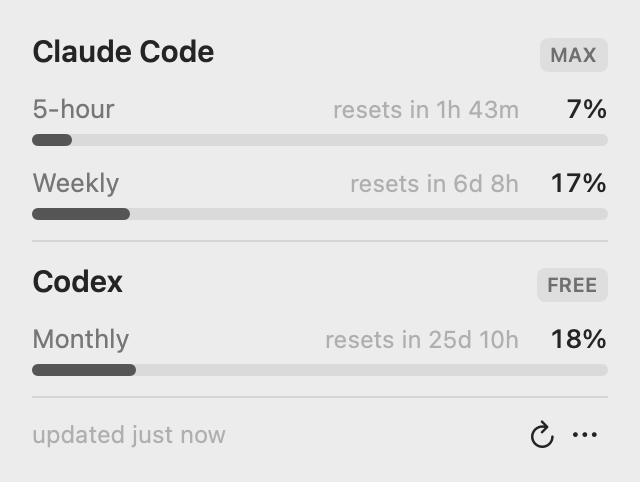
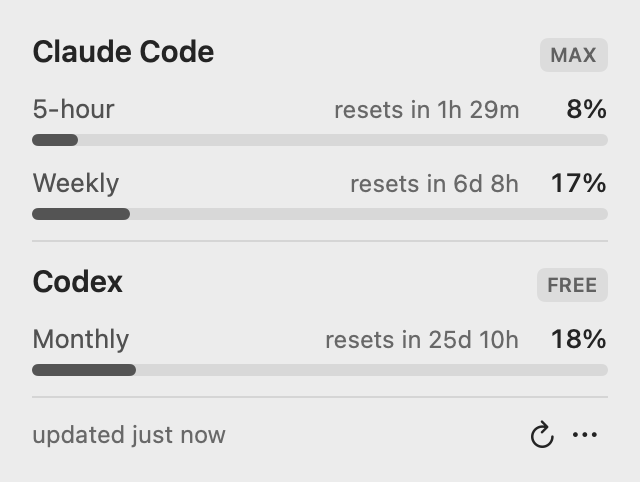
Replace the system label tiers with a palette that clears WCAG AA

diff --git a/Tests/UsageBarCoreTests/PaletteTests.swift b/Tests/UsageBarCoreTests/PaletteTests.swift
@@ -1,0 +1,122 @@
+import AppKit
+import SwiftUI
+import Testing
+
+@testable import UsageBarCore
+
+/// The popover sits on a menu material that is lighter than `windowBackgroundColor`
+/// in light mode and darker in dark mode, so measuring against the window background
+/// is the conservative case: the real surface can only add contrast.
+@MainActor
+@Suite("Palette contrast")
+struct PaletteTests {
+    static let appearances: [(String, NSAppearance.Name)] = [("light", .aqua), ("dark", .darkAqua)]
+
+    static func contrast(_ color: Color, _ appearanceName: NSAppearance.Name) -> Double {
+        contrast(NSColor(color), appearanceName)
+    }
+
+    static func contrast(_ color: NSColor, _ appearanceName: NSAppearance.Name) -> Double {
+        var result = 0.0
+        NSAppearance(named: appearanceName)?.performAsCurrentDrawingAppearance {
+            let background = NSColor.windowBackgroundColor
+            let front = luminance(of: color, over: background)
+            let back = luminance(of: background, over: background)
+            result = (max(front, back) + 0.05) / (min(front, back) + 0.05)
+        }
+        return result
+    }
+
+    private static func luminance(of color: NSColor, over background: NSColor) -> Double {
+        guard let front = color.usingColorSpace(.sRGB), let back = background.usingColorSpace(.sRGB) else {
+            return 0
+        }
+        let alpha = Double(front.alphaComponent)
+        func blend(_ f: CGFloat, _ b: CGFloat) -> Double { Double(f) * alpha + Double(b) * (1 - alpha) }
+        func linear(_ v: Double) -> Double { v <= 0.03928 ? v / 12.92 : pow((v + 0.055) / 1.055, 2.4) }
+        return 0.2126 * linear(blend(front.redComponent, back.redComponent))
+            + 0.7152 * linear(blend(front.greenComponent, back.greenComponent))
+            + 0.0722 * linear(blend(front.blueComponent, back.blueComponent))
+    }
+
+    @Test func everyTextColorMeetsAA() {
+        let inks: [(String, Color)] = [
+            ("primaryInk", Palette.primaryInk),
+            ("secondaryInk", Palette.secondaryInk),
+            ("mutedInk", Palette.mutedInk),
+        ]
+        for (name, ink) in inks {
+            for (mode, appearance) in Self.appearances {
+                let ratio = Self.contrast(ink, appearance)
+                #expect(ratio >= 4.5, "\(name) in \(mode) is \(ratio):1, below the 4.5:1 AA floor")
+            }
+        }
+    }
+
+    /// Meter fills are non-text graphics, so the bar is 3:1. Every meter also carries
+    /// its own percentage, which is what keeps the color from being the only signal.
+    @Test func everyMeterFillMeetsNonTextContrast() {
+        let fills: [(String, Color)] = [
+            ("normal", Palette.meterFill(forPercent: 10)),
+            ("warn", Palette.meterFill(forPercent: 70)),
+            ("critical", Palette.meterFill(forPercent: 95)),
+        ]
+        for (name, fill) in fills {
+            for (mode, appearance) in Self.appearances {
+                let ratio = Self.contrast(fill, appearance)
+                #expect(ratio >= 3.0, "meter \(name) in \(mode) is \(ratio):1, below the 3:1 floor")
+            }
+        }
+    }
+
+    /// Contrast alone is not enough: pushing an orange dark enough to pass on a light
+    /// background turns it into a red, and then the two states look the same.
+    @Test func warnAndCriticalStayTellableApart() {
+        for (mode, appearance) in Self.appearances {
+            let separation = Self.separation(Palette.meterWarn, Palette.meterCritical, appearance)
+            #expect(separation >= 12, "warn and critical differ by only \(separation) in \(mode)")
+        }
+    }
+
+    static func separation(_ a: Color, _ b: Color, _ appearanceName: NSAppearance.Name) -> Double {
+        var result = 0.0
+        NSAppearance(named: appearanceName)?.performAsCurrentDrawingAppearance {
+            let first = oklab(NSColor(a)), second = oklab(NSColor(b))
+            result = (pow(first.0 - second.0, 2) + pow(first.1 - second.1, 2) + pow(first.2 - second.2, 2))
+                .squareRoot() * 100
+        }
+        return result
+    }
+
+    private static func oklab(_ color: NSColor) -> (Double, Double, Double) {
+        guard let c = color.usingColorSpace(.sRGB) else { return (0, 0, 0) }
+        func linear(_ v: CGFloat) -> Double {
+            let v = Double(v)
+            return v <= 0.04045 ? v / 12.92 : pow((v + 0.055) / 1.055, 2.4)
+        }
+        let r = linear(c.redComponent), g = linear(c.greenComponent), b = linear(c.blueComponent)
+        let l = cbrt(0.4122214708 * r + 0.5363325363 * g + 0.0514459929 * b)
+        let m = cbrt(0.2119034982 * r + 0.6806995451 * g + 0.1073969566 * b)
+        let s = cbrt(0.0883024619 * r + 0.2817188376 * g + 0.6299787005 * b)
+        return (
+            0.2104542553 * l + 0.7936177850 * m - 0.0040720468 * s,
+            1.9779984951 * l - 2.4285922050 * m + 0.4505937099 * s,
+            0.0259040371 * l + 0.7827717662 * m - 0.8086757660 * s
+        )
+    }
+
+    @Test func thresholdsPickDistinctFills() {
+        #expect(Palette.meterFill(forPercent: 59.9) == Palette.meterNormal)
+        #expect(Palette.meterFill(forPercent: 60) == Palette.meterWarn)
+        #expect(Palette.meterFill(forPercent: 84.9) == Palette.meterWarn)
+        #expect(Palette.meterFill(forPercent: 85) == Palette.meterCritical)
+        #expect(Palette.meterFill(forPercent: 100) == Palette.meterCritical)
+    }
+
+    /// Guards the reason this palette exists. If the system tiers ever become
+    /// accessible on their own, this fails and the custom colors can go.
+    @Test func systemLabelTiersStillFailInLightMode() {
+        #expect(Self.contrast(NSColor.secondaryLabelColor, .aqua) < 4.5)
+        #expect(Self.contrast(NSColor.tertiaryLabelColor, .aqua) < 4.5)
+    }
+}

diff --git a/Sources/UsageBarApp/PopoverView.swift b/Sources/UsageBarApp/PopoverView.swift
@@ -47,10 +47,10 @@ private struct ProviderSection: View {
                 if let plan = status.report?.plan {
                     Text(plan.uppercased())
                         .font(.system(size: 10, weight: .semibold))
-                        .foregroundStyle(.secondary)
+                        .foregroundStyle(Palette.mutedInk)
                         .padding(.horizontal, 5)
                         .padding(.vertical, 2)
-                        .background(.primary.opacity(0.07), in: RoundedRectangle(cornerRadius: 4))
+                        .background(Palette.badgeFill, in: RoundedRectangle(cornerRadius: 4))
                 }
             }
             ForEach(status.report?.windows ?? []) { window in
@@ -69,42 +69,34 @@ private struct WindowRow: View {
             HStack(alignment: .firstTextBaseline, spacing: 6) {
                 Text(window.title)
                     .font(.system(size: 13))
-                    .foregroundStyle(.secondary)
+                    .foregroundStyle(Palette.secondaryInk)
                 Spacer(minLength: 4)
                 if let resetsAt = window.resetsAt {
                     Text(RelativeTime.untilReset(resetsAt, now: now))
                         .font(.system(size: 12))
-                        .foregroundStyle(.tertiary)
+                        .foregroundStyle(Palette.mutedInk)
                 }
                 Text("\(Int(window.usedPercent.rounded()))%")
                     .font(.system(size: 13, weight: .medium).monospacedDigit())
                     .frame(width: 38, alignment: .trailing)
             }
-            Meter(fraction: window.usedPercent / 100)
+            Meter(percent: window.usedPercent)
         }
     }
 }
 
 private struct Meter: View {
-    let fraction: Double
+    let percent: Double
 
-    private var clamped: Double { min(max(fraction, 0), 1) }
-
-    private var fill: Color {
-        switch clamped {
-        case ..<0.6: .primary.opacity(0.72)
-        case ..<0.85: .orange
-        default: .red
-        }
-    }
+    private var clamped: Double { min(max(percent / 100, 0), 1) }
 
     var body: some View {
         GeometryReader { geometry in
             ZStack(alignment: .leading) {
-                Capsule().fill(.primary.opacity(0.09))
+                Capsule().fill(Palette.meterTrack)
                 Capsule()
-                    .fill(fill)
-                    .frame(width: max(clamped * geometry.size.width, clamped > 0 ? 5 : 0))
+                    .fill(Palette.meterFill(forPercent: percent))
+                    .frame(width: max(clamped * geometry.size.width, clamped > 0 ? 6 : 0))
             }
         }
         .frame(height: 6)
@@ -123,10 +115,10 @@ private struct EmptyStateView: View {
                 VStack(alignment: .leading, spacing: 2) {
                     Text(status.kind.displayName)
                         .font(.system(size: 13, weight: .medium))
-                        .foregroundStyle(.secondary)
+                        .foregroundStyle(Palette.secondaryInk)
                     Text(status.unavailableReason ?? "Unavailable.")
                         .font(.system(size: 12))
-                        .foregroundStyle(.tertiary)
+                        .foregroundStyle(Palette.mutedInk)
                         .fixedSize(horizontal: false, vertical: true)
                 }
             }
@@ -154,7 +146,7 @@ private struct FooterView: View {
         HStack(spacing: 8) {
             Text(store.lastRefreshed.map { RelativeTime.sinceUpdate($0) } ?? "not checked yet")
                 .font(.system(size: 12))
-                .foregroundStyle(.tertiary)
+                .foregroundStyle(Palette.mutedInk)
             Spacer()
             Button {
                 store.refresh()

diff --git a/Sources/UsageBarCore/Palette.swift b/Sources/UsageBarCore/Palette.swift
@@ -1,0 +1,47 @@
+import AppKit
+import SwiftUI
+
+/// Every color here clears WCAG AA against the popover background in both
+/// appearances, which the system label tiers do not: `.secondary` measures 3.82:1
+/// and `.tertiary` measures 1.86:1 in light mode. `PaletteTests` holds the numbers,
+/// so change a value there and the test tells you what it costs.
+public enum Palette {
+    public static let primaryInk = Color.primary
+    public static let secondaryInk = Color.primary.opacity(0.78)
+    public static let mutedInk = Color.primary.opacity(0.66)
+
+    public static let meterTrack = Color.primary.opacity(0.10)
+    public static let badgeFill = Color.primary.opacity(0.08)
+
+    public static let meterNormal = Color.primary.opacity(0.72)
+    public static let meterWarn = Color(nsColor: warn)
+    public static let meterCritical = Color(nsColor: critical)
+
+    /// System orange is 1.86:1 on a light background, so light mode gets a burnt
+    /// orange instead. Dark mode keeps the native color, which already measures 6.24:1.
+    /// The light pair is also chosen for distance from `critical`: darkening an orange
+    /// far enough to pass contrast walks it straight into red.
+    static let warn = NSColor(name: "usagebar.meter.warn") { appearance in
+        appearance.isDark ? .systemOrange : NSColor(srgbRed: 0.800, green: 0.333, blue: 0.0, alpha: 1)
+    }
+
+    static let critical = NSColor(name: "usagebar.meter.critical") { appearance in
+        appearance.isDark
+            ? NSColor(srgbRed: 1.0, green: 0.420, blue: 0.369, alpha: 1)
+            : NSColor(srgbRed: 0.600, green: 0.106, blue: 0.106, alpha: 1)
+    }
+
+    public static func meterFill(forPercent percent: Double) -> Color {
+        switch percent {
+        case ..<60: meterNormal
+        case ..<85: meterWarn
+        default: meterCritical
+        }
+    }
+}
+
+extension NSAppearance {
+    var isDark: Bool {
+        bestMatch(from: [.aqua, .darkAqua]) == .darkAqua
+    }
+}
